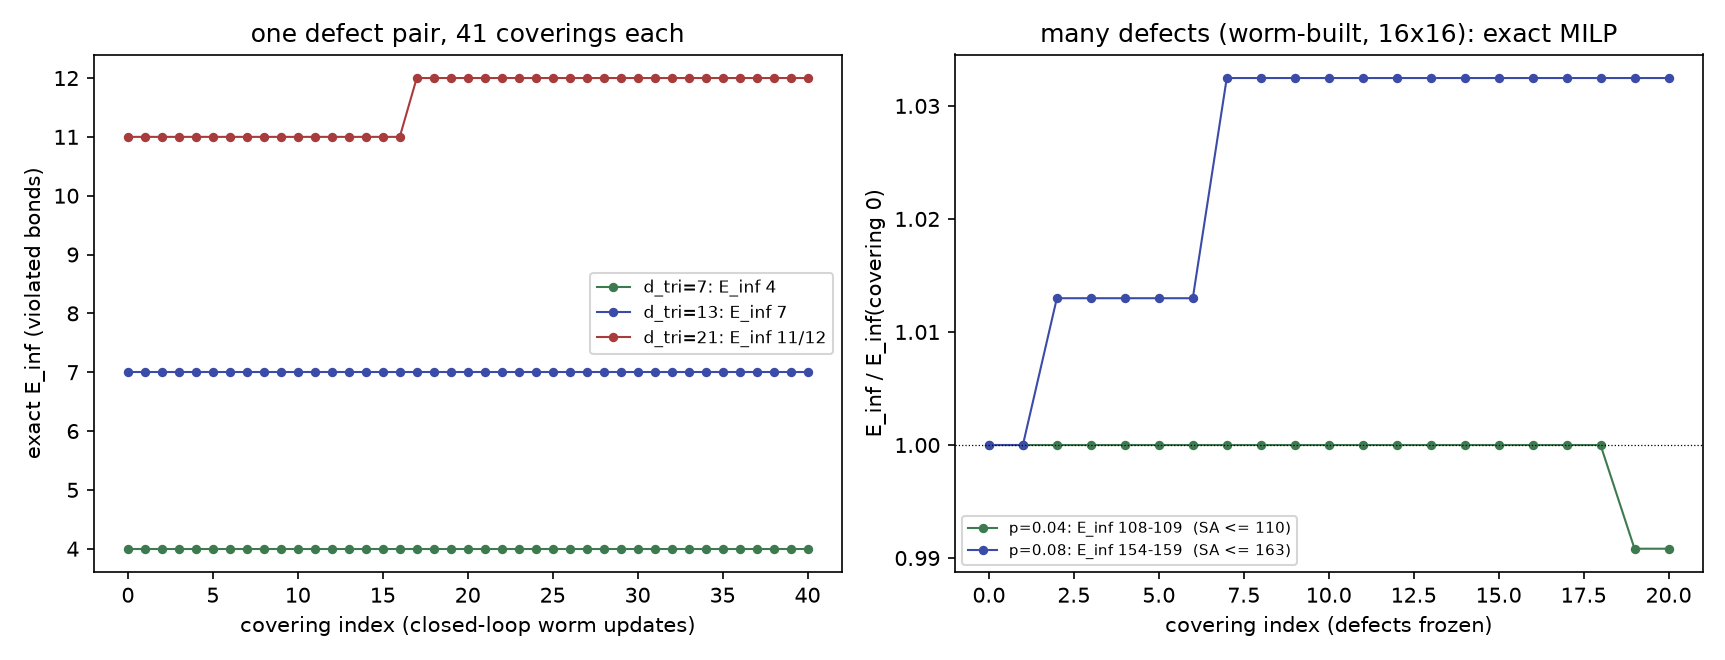
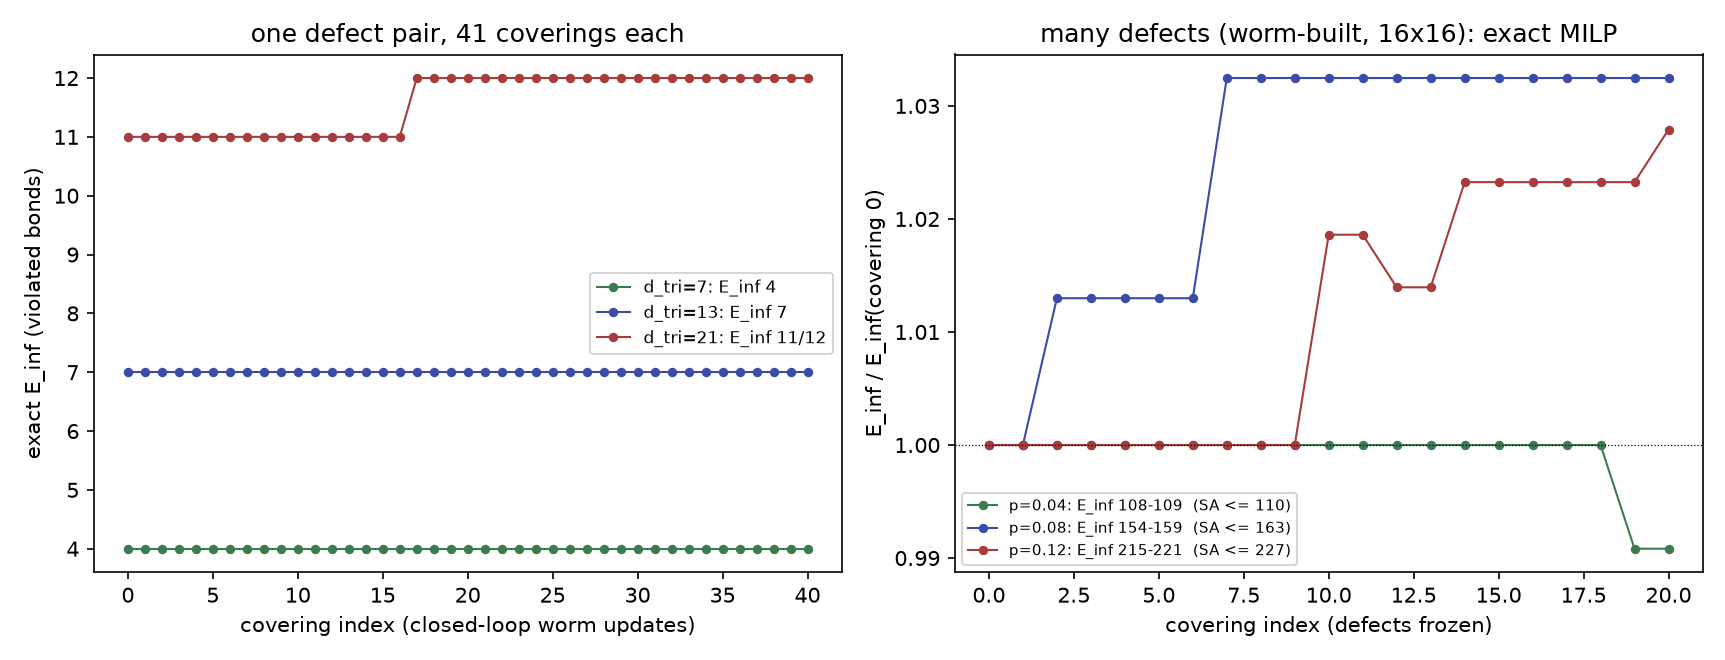
(b) B2 exact/bounded E_inf at p=0.04/0.08/0.12; Case 1/2 D3=1 heavy recheck (both 3); thermo D2=0 production logs
Claude-Session: https://claude.ai/code/session_01RFJ2yezimFHmJH4nSdTCzd

diff --git a/exact_Einf.py b/exact_Einf.py
@@ -175,7 +175,7 @@ def exact_two_state_energy(lat, max_fixups=400):
     return lower, None, False
 
 
-def exact_two_state_energy_milp(lat, time_limit=600):
+def exact_two_state_energy_milp(lat, time_limit=600, knn=None, targets=None, bounds=False):
     """Exact E_inf for many defects: min-weight T-join with the global
     homology constraint, as a MILP (scipy/HiGHS). Variables x[pair, class]
     (each defect covered once); the XOR of the chosen classes must equal a
@@ -183,7 +183,13 @@ def exact_two_state_energy_milp(lat, time_limit=600):
     cycles, and a cycle can be absorbed into one pair's walk class, so the
     MILP optimum for the certifying target is exact. All four targets are
     solved; exactly one of them certifies. Returns (E, per_target) where
-    per_target maps class -> (milp optimum, realized |V|, certified)."""
+    per_target maps class -> (milp optimum, realized |V|, certified).
+
+    For many defects: knn=k keeps only pairs among each defect's k cheapest
+    partners (the result is then a certified UPPER bound), targets restricts
+    the classes solved, and bounds=True makes per_target entries
+    (value, |V|, certified, dual_bound) with HiGHS's rigorous dual bound
+    (a LOWER bound even when the time limit stops the search)."""
     from scipy.optimize import milp, LinearConstraint, Bounds
     from scipy.sparse import lil_matrix
     G = _Graph(lat)
@@ -192,8 +198,17 @@ def exact_two_state_energy_milp(lat, time_limit=600):
         return 0, {}
     idx = {s: i for i, s in enumerate(T)}
     info = {s: G.paths_from(s) for s in T}
+    keep = None
+    if knn is not None:
+        keep = set()
+        for s in T:
+            d = info[s][0]
+            near = sorted((int(d[t].min()), t) for t in T if t != s)[:knn]
+            keep.update(frozenset((s, t)) for _, t in near)
     var = []
     for s, t in itertools.combinations(T, 2):
+        if keep is not None and frozenset((s, t)) not in keep:
+            continue
         dist = info[s][0]
         for c in CLASSES:
             var.append((s, t, c, int(dist[t, c[0], c[1]])))
@@ -210,17 +225,18 @@ def exact_two_state_energy_milp(lat, time_limit=600):
     A = A.tocsr()
     ub = np.concatenate([np.ones(nv), [len(T), len(T)]])
     out = {}
-    for tgt in CLASSES:
+    for tgt in (targets or CLASSES):
         lo = np.concatenate([np.ones(len(T)), tgt])
         res = milp(cost, constraints=LinearConstraint(A, lo, lo),
                    integrality=np.ones(nv + 2), bounds=Bounds(0, ub),
                    options={"time_limit": time_limit})
+        dual = getattr(res, "mip_dual_bound", None)
         if res.x is None:
-            out[tgt] = (None, None, False)
+            out[tgt] = (None, None, False) + ((dual,) if bounds else ())
             continue
         chosen = [var[j] for j in range(nv) if res.x[j] > 0.5]
         v = _xor(G.path_bonds(info[s][1], (t, c[0], c[1])) for s, t, c, _ in chosen)
-        out[tgt] = (int(round(res.fun)), len(v), _certify(lat, set(v)))
+        out[tgt] = (int(round(res.fun)), len(v), _certify(lat, set(v))) + ((dual,) if bounds else ())
     good = [r for r in out.values() if r[2]]
     return (min(r[0] for r in good) if good else None), out
 

diff --git a/b_path_independence.py b/b_path_independence.py
@@ -13,7 +13,7 @@ in a sector.
 
 Usage:
   python3 b_path_independence.py pair <hops> <n_loops> <seed>
-  python3 b_path_independence.py many <p> <n_loops> <seed>
+  python3 b_path_independence.py many <p> <n_loops> <seed> [knn]
 """
 import sys
 
@@ -84,20 +84,21 @@ def run_pair(hops, n_loops, seed):
     assert len(frustrated_triangles(st.lat)) == 2
 
 
-def run_many(p, n_loops, seed):
+def run_many(p, n_loops, seed, knn=None):
     from worm_density_construction import build
     rng = np.random.default_rng(seed)
     st, _ = build(p, rng, n_sweeps=600)
     frozen = set(st.monomers)
     m = len(frozen)
     print(f"# many: p={m / st.n:.4f}  monomers={m}")
-    print("# loop  lower(no homology)  E_inf(exact, MILP)  sector")
+    note = "exact, MILP" if knn is None else f"MILP over {knn} nearest partners: certified upper bound"
+    print(f"# loop  lower(no homology)  E_inf({note})  sector")
     rng2 = np.random.default_rng(seed + 100)
     for k in range(n_loops + 1):
         if k:
             loop_update(st, rng2, frozen=frozen)
         lo, _, _ = exact_two_state_energy(st.lat, max_fixups=0)
-        e, _ = exact_two_state_energy_milp(st.lat)
+        e, _ = exact_two_state_energy_milp(st.lat, knn=knn)
         print(f"{k} {lo} {e} {sector_signature(st)}", flush=True)
     assert st.monomers == frozen
 
@@ -107,4 +108,5 @@ if __name__ == "__main__":
     if mode == "pair":
         run_pair(int(sys.argv[2]), int(sys.argv[3]), int(sys.argv[4]))
     else:
-        run_many(float(sys.argv[2]), int(sys.argv[3]), int(sys.argv[4]))
+        run_many(float(sys.argv[2]), int(sys.argv[3]), int(sys.argv[4]),
+                 int(sys.argv[5]) if len(sys.argv) > 5 else None)
